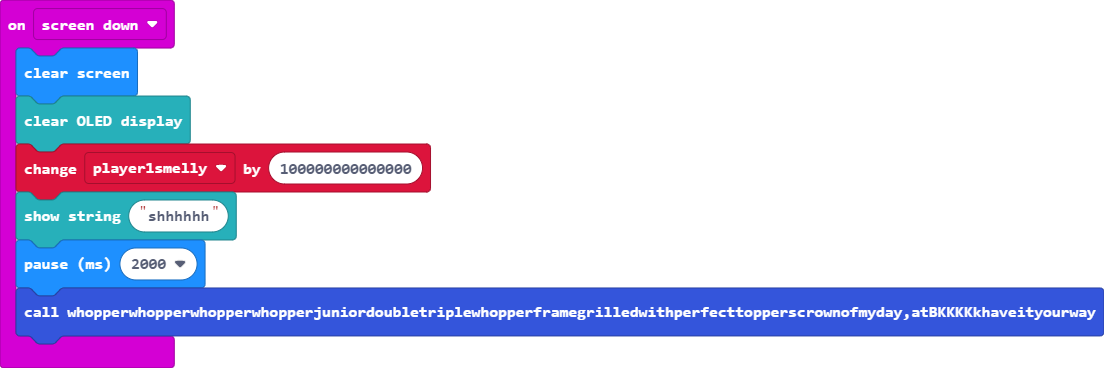
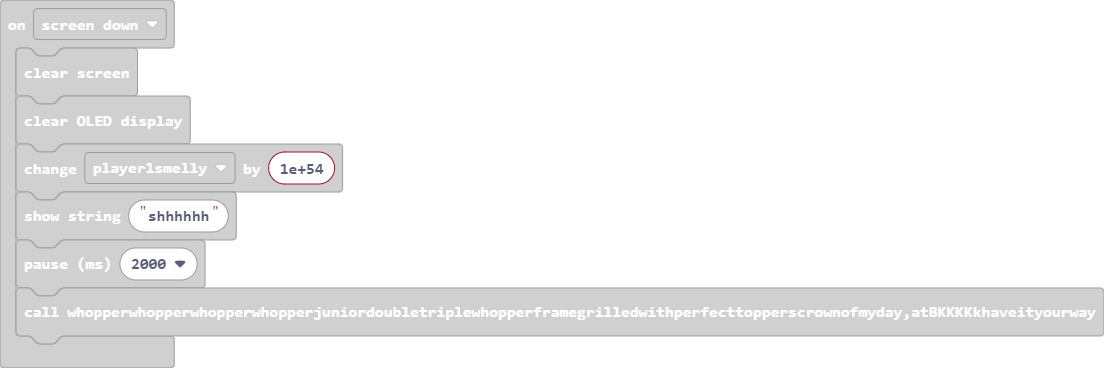
Update main.blocks, main.ts

Changed region(s): [[0.0, 0.0, 1.0, 1.0]]

diff --git a/main.ts b/main.ts
@@ -8,7 +8,7 @@ input.onButtonPressed(Button.A, function () {
 input.onGesture(Gesture.ScreenDown, function () {
     basic.clearScreen()
     OLED.clear()
-    player1smelly += 100000000000000
+    player1smelly += 1e+54
     OLED.writeStringNewLine("shhhhhh")
     basic.pause(2000)
     whopperwhopperwhopperwhopperjuniordoubletriplewhopperframegrilledwithperfecttopperscrownofmydayatBKKKKkhaveityourway()
